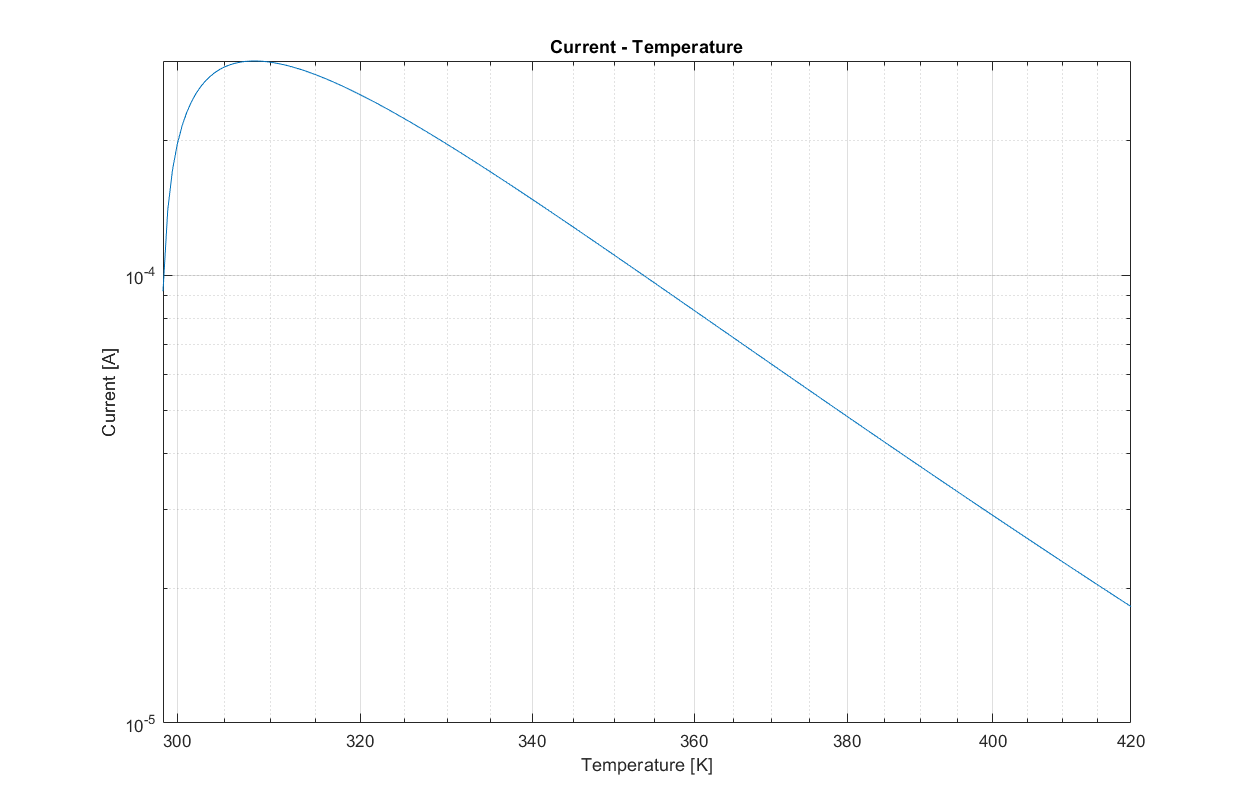
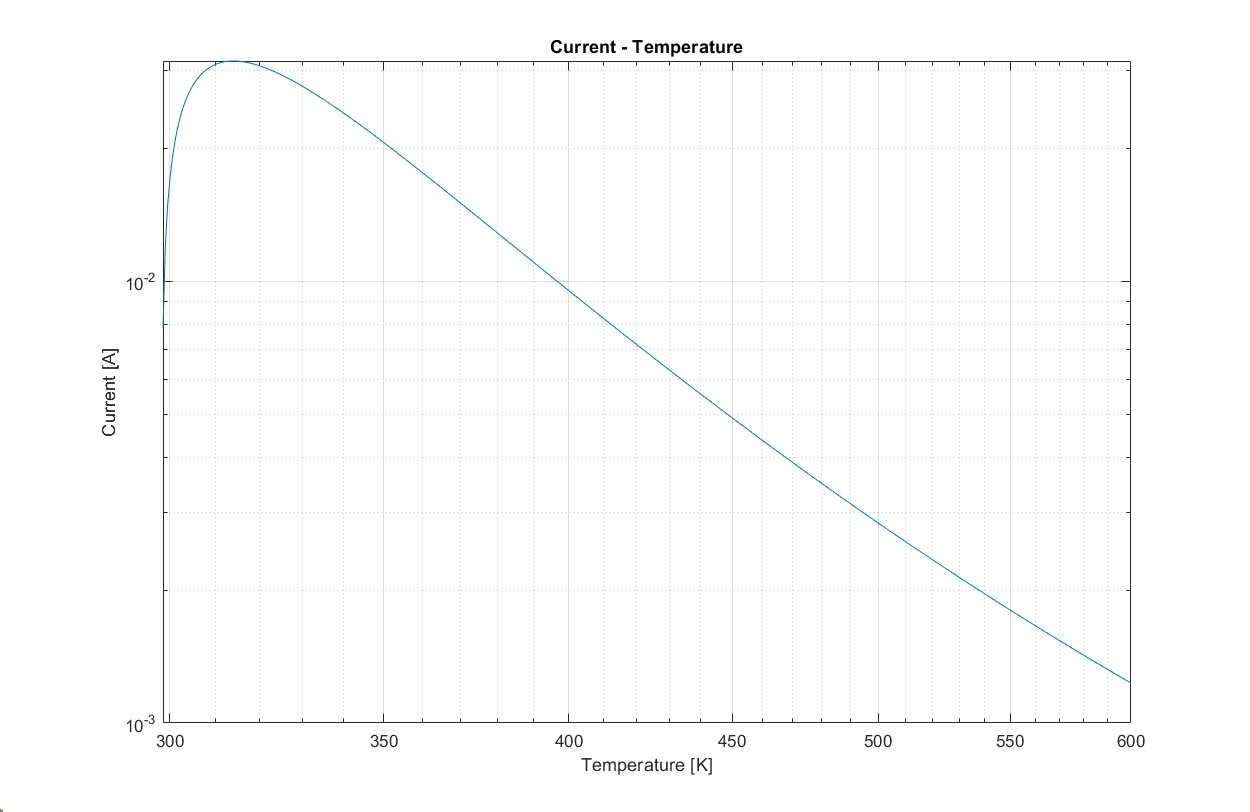
updated PTC graphs

diff --git a/src/chapters/PTC-type.tex b/src/chapters/PTC-type.tex
@@ -16,22 +16,22 @@ One of the most important properties of the PTC thermistor is the characteristic
     \beta = \frac{\ln{\frac{R_2}{R_1}}}{\frac{1}{T_2} - \frac{1}{T_1}}
 \end{equation*}
 
-\noindent Using the previous equations, the curve can be plotted by writing down the equations using MATLAB, or other programming languages. Figure \ref{fig:PTC_logarithmic} shows how much the resistance increases as the temperature increases. In this case, the coefficient $\beta$ has been calculated by assuming that when $T_1 = 273.15 K$, $R_1 = 1k\Omega$ and when $T_2 = 373.15 K$, $R_2 = 100M\Omega$.\footnote{Please be aware that the selected values are purely for illustrative purposes; no devices with these characteristics exist in reality}
+\noindent Using the previous equations, the curve can be plotted by writing down the equations using MATLAB, or other programming languages. Figure \ref{fig:PTC_logarithmic} shows how much the resistance increases as the temperature increases. In this case, the coefficient $\beta$ has been calculated by assuming that when $T_1 = 358.15 K = 85^\circ C$, $R_1 = 40k\Omega$ and when $T_2 = 253.15 K = -20^\circ C$, $R_2 = 30\Omega$.
 
 \begin{figure}[h]
     \centering
     \includegraphics[width = .75\textwidth]{../res/plots/PTC_logarithmic.png}
     \label{fig:PTC_logarithmic}
-    \caption{PTC resistance-temperature logarithmic curve.}
+    \caption{PTC resistance-temperature logarithmic curve, from -173°C to 326°C.}
 \end{figure}
 
-\FloatBarrier\noindent Secondly it might be interesting to plot the change ratio between the resistance $R$ and the value of the resistance at some fixed temperature. In the figure \ref{fig:PTC_ratio}, the fixed temperature value $T_0$ was 25° celsius (or 298.15 Kelvin) which implies that $R_0 = 16.7 k\Omega$.
+\FloatBarrier\noindent By restricting the plot between -13°C and 126°C it is more noticeable the exponential behavior of the posistor: the image \ref{fig:PTC_ratio} shows the limited exponential curve of the PTC thermistor.
 
 \begin{figure}[h]
     \centering
     \includegraphics[width = .75\textwidth]{../res/plots/PTC_ratio.png}
     \label{fig:PTC_ratio}
-    \caption{PTC change ratio between $R$ and $R_0$}
+    \caption{PTC resistance-temperature curve, limited between -13°C and 126°C.}
 \end{figure}
 
 \FloatBarrier\noindent In both of the plots the resistance value or the change ratio drastically increases as the environment gets hotter. Generally, the equation describes the behavior of the PTC thermistor in an interval of temperature: in the PTC materials there is a temperature, called \textbf{Curie point} where the resistance starts to rise exponentially in comparison with the temperature (as shown in figure \ref{fig:PTC_logarithmic} and \ref{fig:PTC_ratio}); before the Curie temperature, the PTC thermistor does not increase drastically their resistance when the temperature raises. Generally, the Curie point in the PTC materials is between 50°C and 400°C \cite{Cheng2014441}.

diff --git a/res/plots/script/PTC.m b/res/plots/script/PTC.m
@@ -1,20 +1,19 @@
 clc, clear, clearvars, close all
 
 % Define temperature range from 260 K to 420 K with intervals of 0.5 K
-T = 260 : 1/2 : 420;
+T = 100 : 1/2 : 600;
+
 
 % Calculate the parameter beta using the given resistance values at two temperature points
-beta = log(1e4/1e8) / (1/273.15 - 1/373.15);
+beta = log(30/40e3) / (1/253.15 - 1/358.15);
 
 % Set reference resistance and temperature values
-R0 = 1e4;
-T0 = 273.15;
+R0 = 500;
+T0 = 348.15;
 
 % Calculate resistance values using the Steinhart-Hart equation
 R = R0 * exp(beta * (1 ./ T - 1/T0));
 
-% Calculate resistance ratio normalized to the resistance at 25°C
-R_ratio = R ./ R((25 + 273 - 260) * 2);
 
 % Set position vector for figure windows
 pos_vector = [250, 100, 1000, 650];
@@ -23,15 +22,14 @@ pos_vector = [250, 100, 1000, 650];
 f = figure(1);
 f.Position = pos_vector;
 semilogy(T, R), grid on;
-xlim([270 420]);
 xlabel("Temperature [K]"), ylabel("Resistance [Ω]"), title("Resistance - Temperature")
 
 % Plot 2: Resistance Change (R/R25) vs. Temperature
 f = figure(2);
 f.Position = pos_vector;
-plot(T, R_ratio), grid on;
-xlim([300 420]), ylim([-500 1e4])
-xlabel("Temperature [K]"), ylabel("Resistance Change (R/R25)"), title("Resistance change ratio - Temperature")
+plot(T, R), grid on;
+xlim([300 400])
+xlabel("Temperature [K]"), ylabel("Resistance [Ω]"), title("Resistance - Temperature")
 
 % Define dissipation constant and reference temperature
 dissipation_constant = 4.5e-3;
